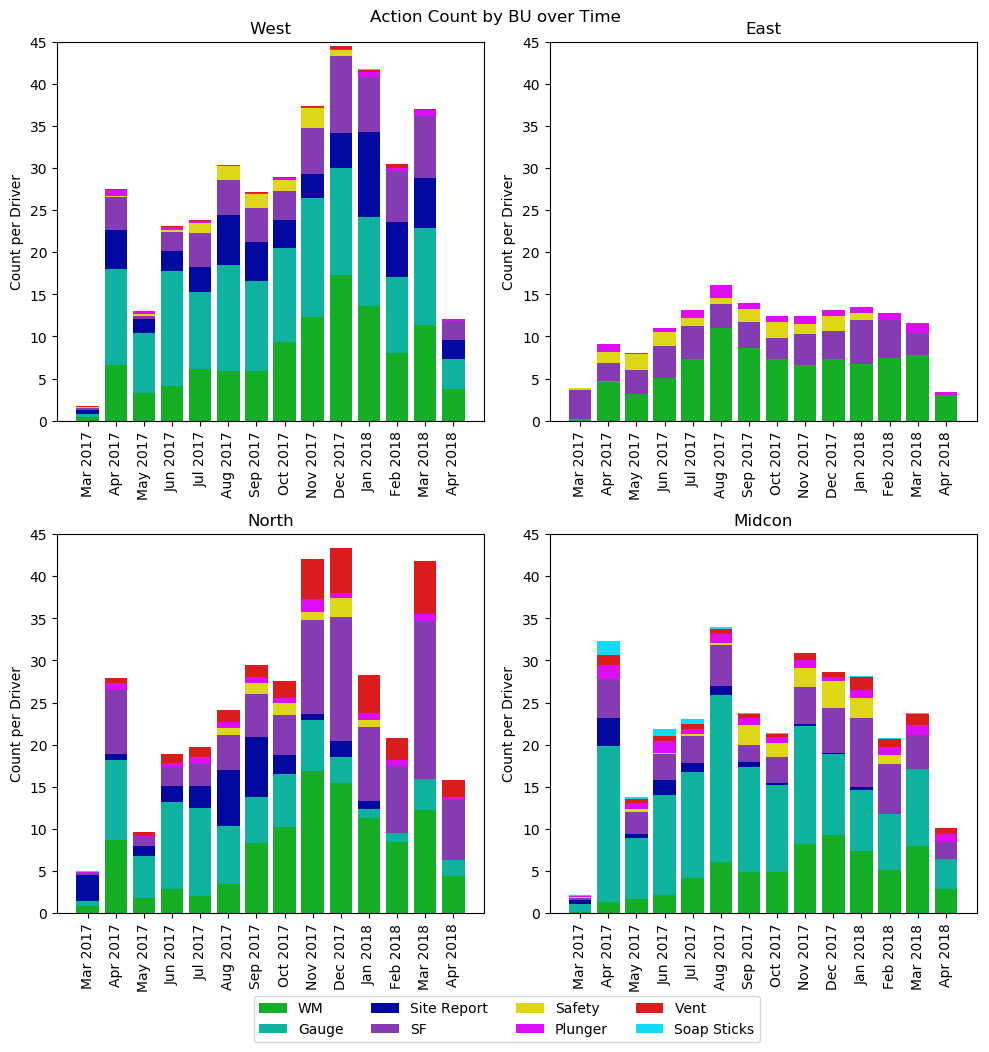
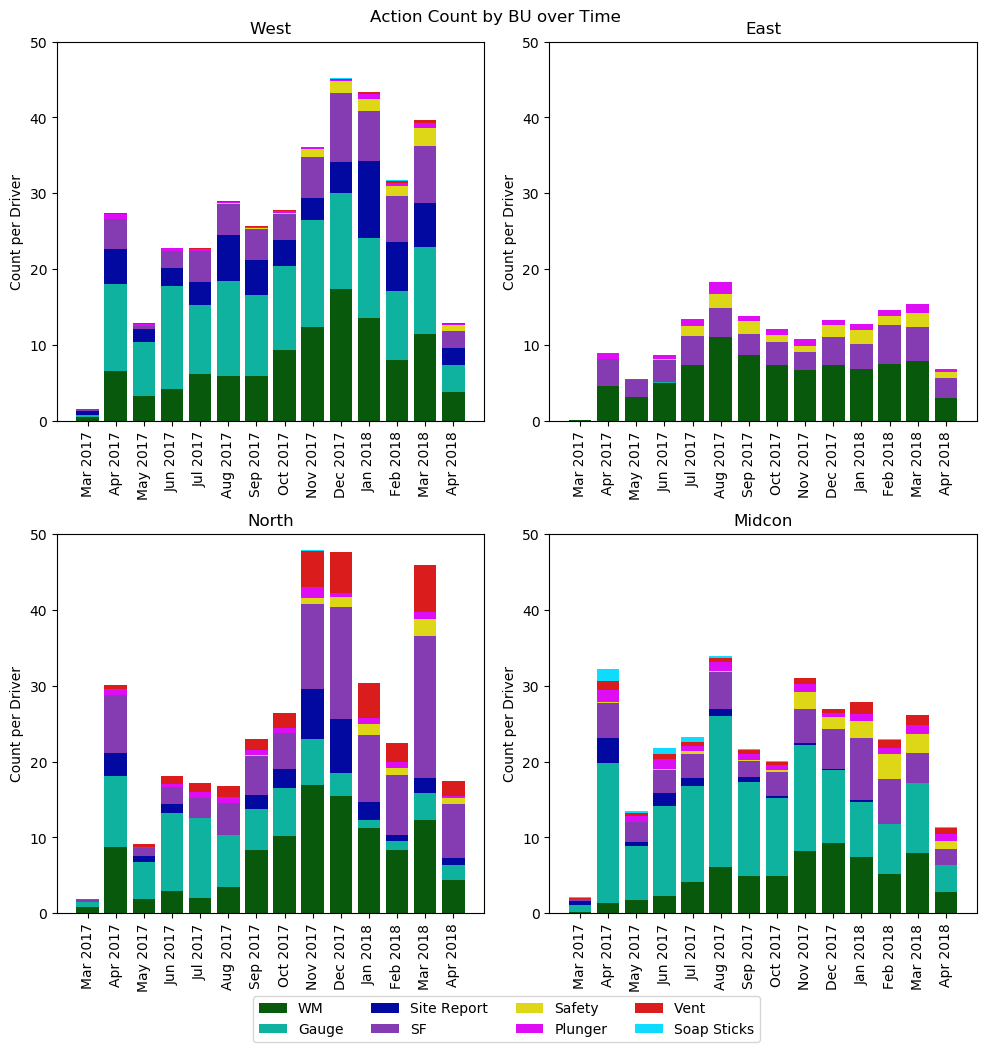
fixed colors and monthly numbers

diff --git a/analyze.py b/analyze.py
@@ -563,7 +563,7 @@ def stacked_actions(df_true, plot_type='count'):
 								 'Action Date'], as_index=False).sum()
 		group_df.rename(index=str, columns={'agg_dur': 'Wellkey'}, inplace=True)
 
-	months = ['Jan 2017', 'Feb 2017', 'Mar 2017', 'Apr 2017', 'May 2017', 'Jun 2017', \
+	months = ['Mar 2017', 'Apr 2017', 'May 2017', 'Jun 2017', \
 			  'Jul 2017', 'Aug 2017', 'Sep 2017', 'Oct 2017', 'Nov 2017', 'Dec 2017', \
 			  'Jan 2018', 'Feb 2018', 'Mar 2018', 'Apr 2018', 'May 2018']
 
@@ -575,7 +575,7 @@ def stacked_actions(df_true, plot_type='count'):
 							  ['WM', 'Gauge', 'Site Report', 'SF',
 							   'Safety', 'Plunger', 'Vent', 'Soap Sticks'])), :]
 
-		colors = ['#15af27', '#0eb29f', '#0109a0', '#853cb2', '#ddd718',
+		colors = ['#09590d', '#0eb29f', '#0109a0', '#853cb2', '#ddd718',
 				  '#dd0ef4', '#db1c1c', '#0fdbff']
 
 		plot_x = {month: i for i, month in enumerate(sorted(month_vals))}
@@ -587,20 +587,20 @@ def stacked_actions(df_true, plot_type='count'):
 				if month not in bu_df.loc[bu_df['Action Type - No count'] == action,
 										  'Action Date'].unique():
 					bu_df = bu_df.append(pd.DataFrame([[bu, action, month, 0]],
-										 columns=['BusniessUnit',
+										 columns=['BusinessUnit',
 										 		  'Action Type - No count',
 												  'Action Date',
 												  'Wellkey']))
-
+			bu_df.sort_values(['Action Type - No count', 'Action Date'], inplace=True)
 			plot_vals = bu_df.loc[bu_df['Action Type - No count'] == action,
 								  'Wellkey'].values
 			if plot_type == 'count':
 				divisor = drivers[bu.lower()]
-				height = 10
+				height = 50
 			elif plot_type == 'hours':
 				divisor = (drivers[bu.lower()] * 60 * 60)
-				height = 2
-				
+				height = 20
+
 			axis.bar(list(plot_x.values()),
 					 plot_vals / divisor,
 					 .8, bottom=bottoms, color=colors[i],
@@ -610,7 +610,8 @@ def stacked_actions(df_true, plot_type='count'):
 			bottoms += (plot_vals / divisor)
 
 		axis.set_title('{}'.format(bu))
-		axis.set_ylim(0, max(bottoms) + height)
+		axis.set_ylim(0, height)
+		# axis.set_ylim(0, max(bottoms) + height)
 		plt.setp(axis.xaxis.get_majorticklabels(), rotation=90)
 		axis.set_ylabel('{} per Driver'.format(plot_type.title()))
 
@@ -623,15 +624,79 @@ def stacked_actions(df_true, plot_type='count'):
 				  additional_artists=art,
 				  bbox_inches='tight')
 
+def safety_plot(df_true):
+	df = df_true.copy()
+
+	plt.close()
+	fig, ax1 = plt.subplots(1, 1, figsize=(6, 6))
+	# ax2 = ax1.twinx()
+
+	df['Action Date'] = pd.to_datetime(df['Action Date'])
+	df['Action Date'] = df['Action Date'].map(lambda x:100*x.year + x.month)
+
+	df.loc[(df['Action Type - No count'] == 'Safety 2.0') |
+		   (df['Action Type - No count'] == 'Safety 3.0'),
+		   'Action Type - No count'] = 'Safety'
+	month_vals = df['Action Date'].unique()
+
+	df = df.loc[df['Action Type - No count'] == 'Safety',
+				['BusinessUnit', 'Action Type - No count', 'Action Date', 'agg_dur']]
+
+	drivers = {'east': 42, 'midcon': 61, 'north': 69, 'west': 140}
+
+	driver_df = pd.DataFrame(columns=df.columns)
+	for bu in df['BusinessUnit'].unique():
+		bu_df = df.loc[df['BusinessUnit'] == bu, :]
+		bu_df.loc[:, 'agg_dur'] = bu_df.loc[:, 'agg_dur'] / drivers[bu.lower()]
+		driver_df = driver_df.append(bu_df)
+
+	months = ['March 2017', 'Apr 2017', 'May 2017', 'Jun 2017', \
+			  'Jul 2017', 'Aug 2017', 'Sep 2017', 'Oct 2017', 'Nov 2017', 'Dec 2017', \
+			  'Jan 2018', 'Feb 2018', 'Mar 2018', 'Apr 2018']
+
+	plot_x = {month: i for i, month in enumerate(sorted(month_vals))}
+
+	driver_df.drop('BusinessUnit', axis=1, inplace=True)
+
+	for month in month_vals:
+		if month not in driver_df['Action Date'].unique():
+			driver_df = driver_df.append(pd.DataFrame([['Safety', month, 0]],
+										 columns=['Action Type - No count', 'Action Date', 'agg_dur']))
+
+	count_df = driver_df.groupby(['Action Type - No count',
+						   		  'Action Date'], as_index=False).count()
+	count_df.sort_values('Action Date', inplace=True)
+
+	hours_df = driver_df.groupby(['Action Type - No count',
+						   		  'Action Date'], as_index=False).sum()
+	hours_df.sort_values('Action Date', inplace=True)
+
+	ax1.plot(list(plot_x.values()), count_df['agg_dur'], .8, 'o-',
+			 color='#359333')
+	# ax2.plot(list(plot_x.values()), hours_df['agg_dur'], .8, 'o-',
+	# 		 color='#15af27')
+
+	ax1.set_xticks(list(plot_x.values()))
+	ax1.set_xticklabels(months)
+	ax1.set_ylabel('Count of Reports per Driver')
+	plt.setp(ax1.xaxis.get_majorticklabels(), rotation=90)
+	# ax2.set_ylabel('Hours Spent on Safety Reports')
+
+	plt.title('Safety Events over Time')
+
+	plt.tight_layout()
+	plt.savefig('figures/safety_plot.png')
 
 if __name__ == '__main__':
 	# action_df = action_pull()
 	# action_df.to_csv('data/comment_action.csv')
 	a_df = pd.read_csv('data/comment_action.csv', encoding='ISO-8859-1')
-	stacked_actions(a_df, plot_type='count')
 	hour_df = pd.read_csv('data/ws_hours.csv')
 	wh_df = pd.merge(a_df, hour_df, left_on='_id', right_on='id')
+	stacked_actions(wh_df, plot_type='count')
 	stacked_actions(wh_df, plot_type='hours')
+
+	safety_plot(wh_df)
 
 	# gauge_df = gauge_pull()
 	# g_df = gauge_events(gauge_df)
